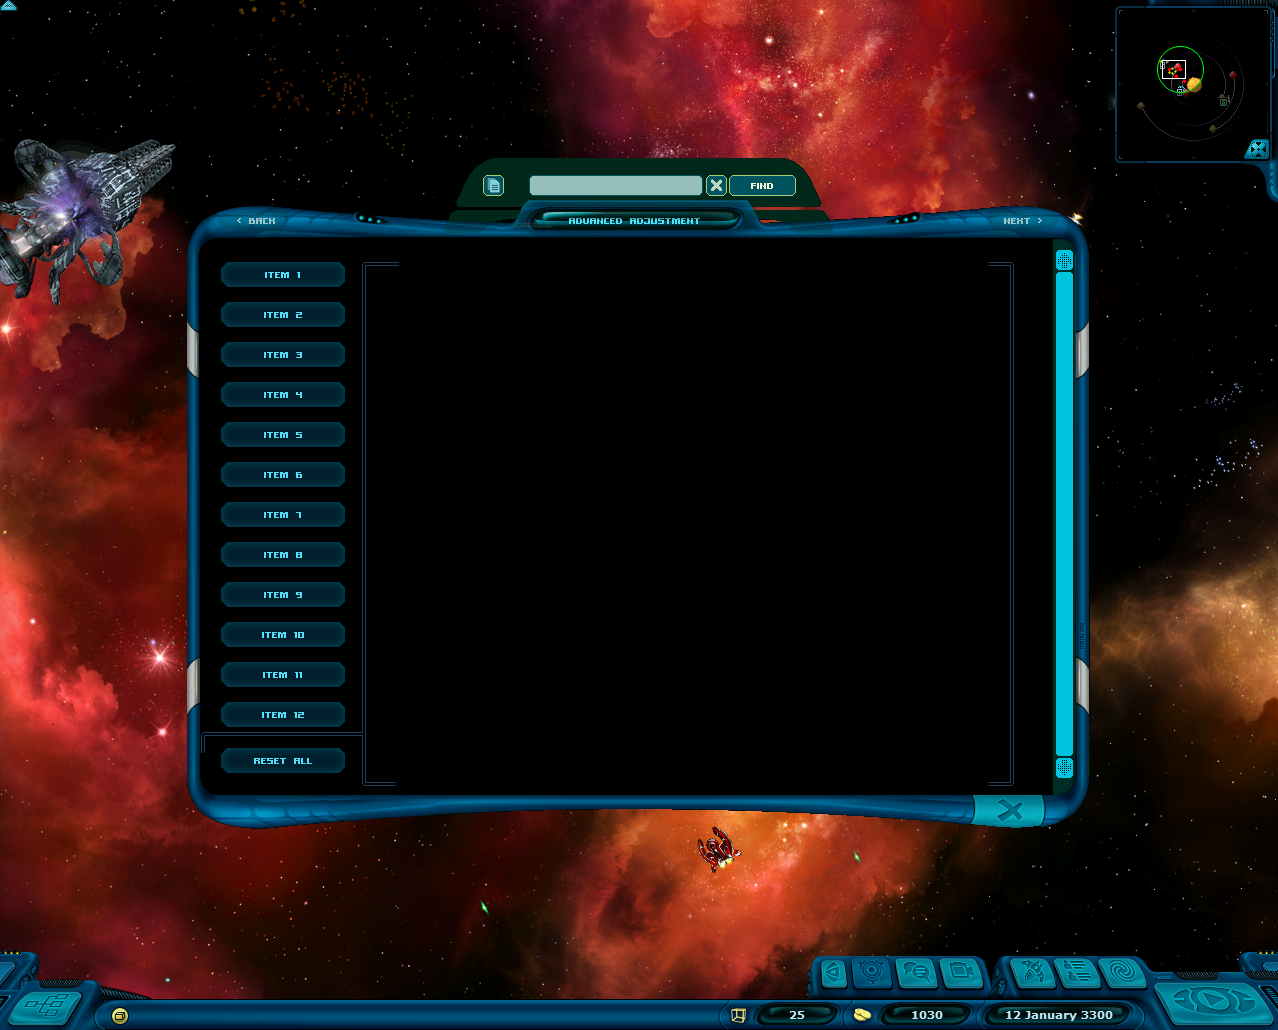
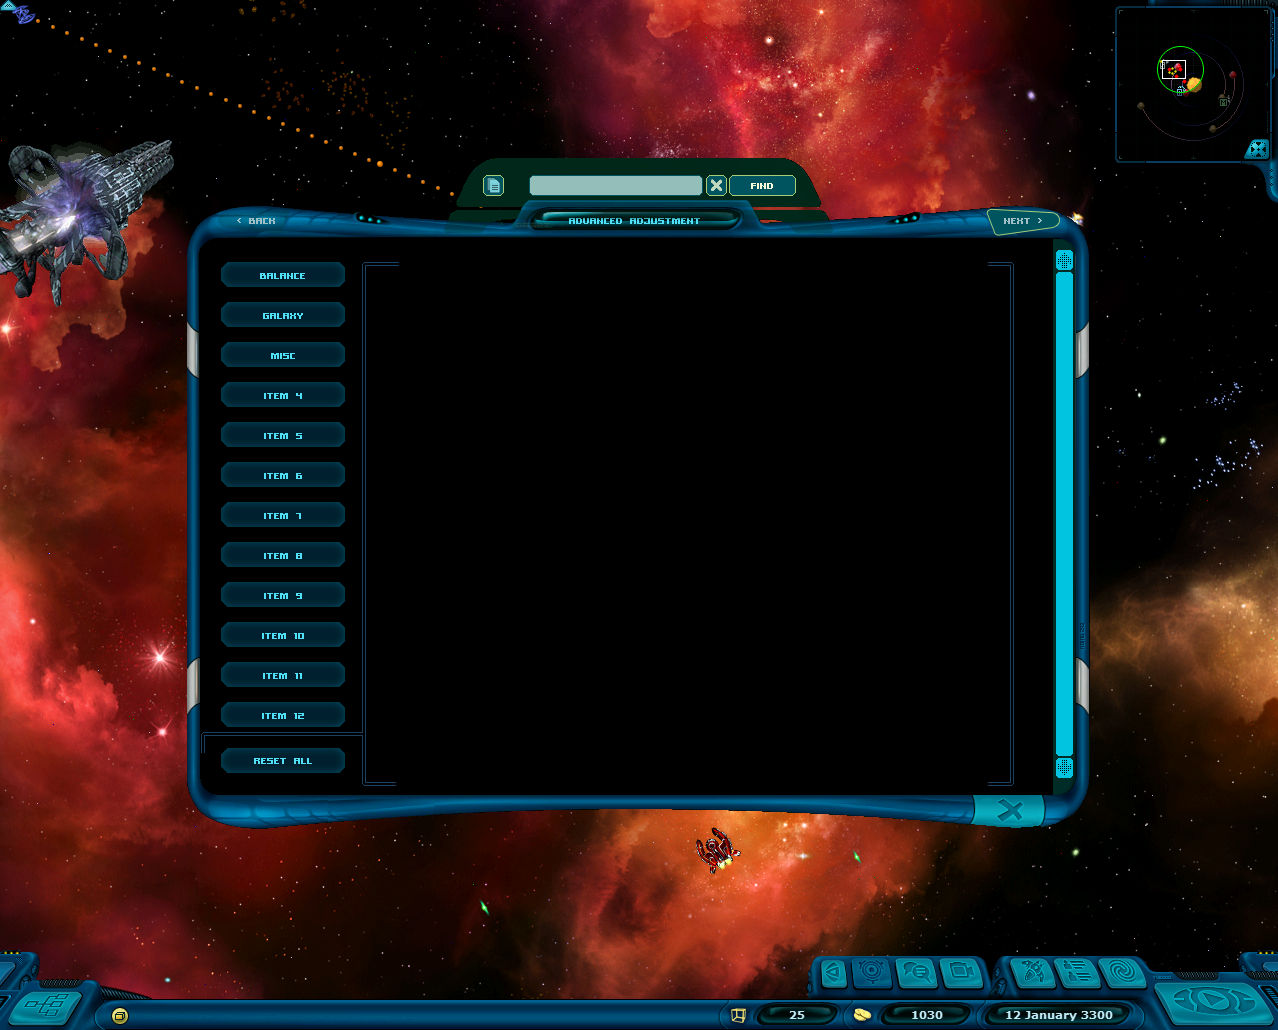
Select one item at a time with the native marker
Slots are Kind=Disable with ImageDisable=2PageD (the pressed-tab art) so the selected one is the bright cyan plate the native panel shows; each slot's OnPressCode runs SelectN, which clears all twelve, marks its own, repaints and prefixes the caption with '< '. The pagers clear the selection, not Paint, so a click keeps it. Adds run_advanced.mjs, the runner for path_advanced_ajustment.md, which reaches the native panel.

diff --git a/path_advanced_ajustment.md b/path_advanced_ajustment.md
@@ -1,0 +1,6 @@
+- закрыть процесс Rangers.exe ("C:\Games\Steam\steamapps\common\Space Rangers HD A War Apart\Rangers.exe")
+- запустить процесс Rangers.exe ("C:\Games\Steam\steamapps\common\Space Rangers HD A War Apart\Rangers.exe")
+- дождаться загрузки (меньше 10 сек)
+- кликнуть Enter
+- кликнуть Enter
+- окно advanced ajustment отображается на экране
